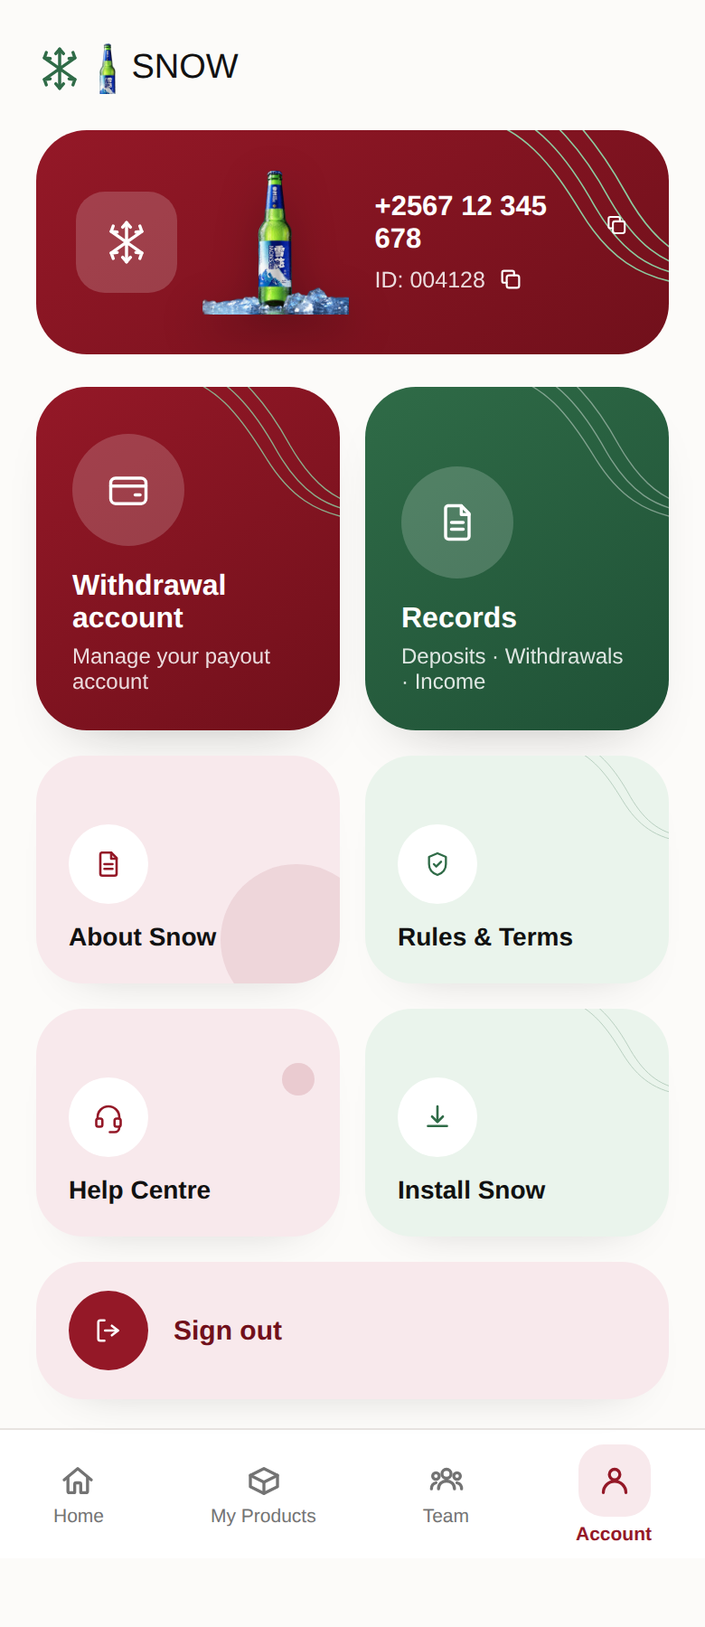
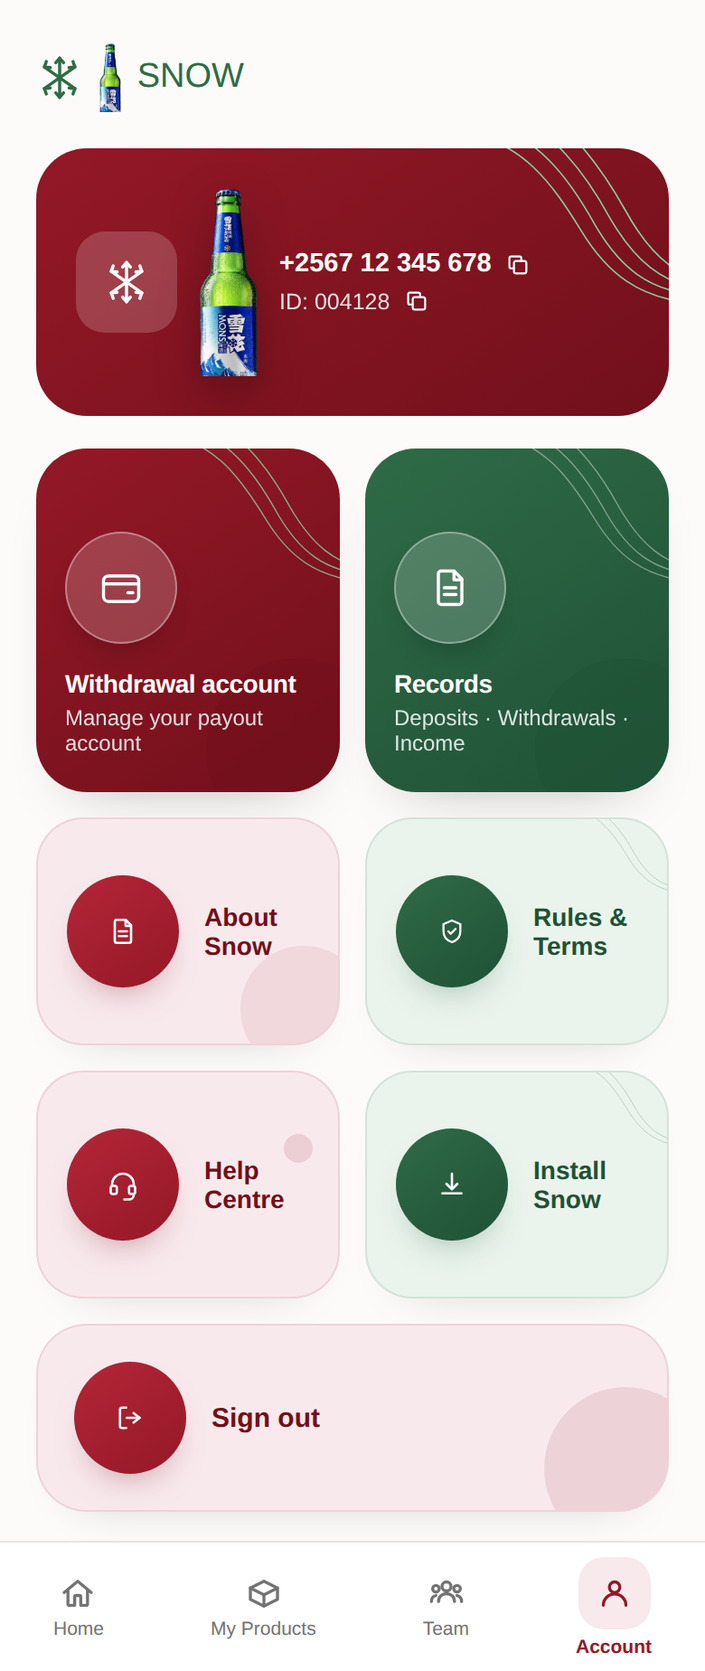
Round 8: Codex's line-by-line correction of Account; record Firebase/Mongo infra
Header bottle enlarged + wordmark recolored green. Identity banner swaps
the ice-included bottle cutout for the bottle-only badge (Codex: the ice
read as a blue strip and forced the phone number to 2 lines) -- phone
now nowrap on one line. Feature card titles tightened to fit one line.
Utility cards restructured from vertical 44px-icon tiles to horizontal
rows with solid 62px gradient icon circles, matching borders, and each
card's own -deep text color. Sign out promoted to its own larger card
size instead of inheriting the smaller utility-card defaults.

Also recorded Snow's Firebase web config (not secret) and MongoDB Atlas
setup status in CLAUDE.md -- no passwords committed.

diff --git a/snow/design/mockup-src/Account.html b/snow/design/mockup-src/Account.html
@@ -73,8 +73,12 @@ button{cursor:pointer;font-family:inherit;}
 
 .account-grid{display:grid;grid-template-columns:repeat(2,minmax(0,1fr));gap:14px;}
 .account-feature-card{min-height:190px;border-radius:var(--snow-radius-card);overflow:hidden;box-shadow:0 16px 32px -22px rgba(17,17,17,.35);position:relative;color:#fff;padding:20px;display:flex;flex-direction:column;justify-content:flex-end;}
-.account-utility-card{min-height:126px;border-radius:26px;padding:18px;box-shadow:0 14px 28px -24px rgba(17,17,17,.28);position:relative;overflow:hidden;display:flex;flex-direction:column;justify-content:flex-end;}
-.account-icon-bubble{width:62px;height:62px;border-radius:50%;display:flex;align-items:center;justify-content:center;}
+.account-utility-card{min-height:126px;border-radius:26px;padding:16px;box-shadow:0 14px 28px -24px rgba(17,17,17,.28);position:relative;overflow:hidden;display:flex;flex-direction:column;justify-content:flex-end;}
+.account-icon-bubble{width:62px;height:62px;border-radius:50%;display:flex;align-items:center;justify-content:center;flex-shrink:0;}
+.utility-wine{border:1px solid rgba(148,24,39,.10);}
+.utility-wine .account-icon-bubble{background:linear-gradient(145deg,#B42638,var(--snow-wine));color:#fff;box-shadow:0 10px 20px -12px rgba(113,16,27,.55);}
+.utility-green{border:1px solid rgba(47,107,71,.12);}
+.utility-green .account-icon-bubble{background:linear-gradient(145deg,var(--snow-green),var(--snow-green-deep));color:#fff;box-shadow:0 10px 20px -12px rgba(31,81,54,.5);}
 </style>
 </head>
 <body>
@@ -82,18 +86,18 @@ button{cursor:pointer;font-family:inherit;}
 
 <div style="display:flex;align-items:center;gap:9px;padding:24px 20px 4px;">
   <svg width="26" height="26" viewBox="0 0 24 24" fill="none" stroke="var(--snow-green)" stroke-width="1.6" stroke-linecap="round"><path d="M12 2v20M4.2 6.5l15.6 11M4.2 17.5l15.6-11"/><path d="M12 2l-2 2.3M12 2l2 2.3M12 22l-2-2.3M12 22l2-2.3M4.2 6.5l3 .3M4.2 6.5l1-2.8M19.8 6.5l-3 .3M19.8 6.5l-1-2.8M4.2 17.5l3-.3M4.2 17.5l1 2.8M19.8 17.5l-3-.3M19.8 17.5l-1 2.8"/></svg>
-  <img src="../reference-bottles/01-qing-shuang-badge.png" alt="" style="height:28px;width:auto;">
-  <div class="wm-text" style="font-size:19px;color:var(--snow-ink);">SNOW</div>
+  <img src="../reference-bottles/01-qing-shuang-badge.png" alt="" style="height:38px;width:auto;">
+  <div class="wm-text" style="font-size:19px;color:var(--snow-green);">SNOW</div>
 </div>
 
 <div class="brand-card" style="margin:16px 20px 0;padding:22px;">
   <svg viewBox="0 0 190 180" aria-hidden="true" style="position:absolute;top:-4px;right:-6px;width:110px;height:104px;opacity:0.9;"><path d="M-18 -8 C40 0 69 42 96 86 C121 127 151 150 202 155" stroke="var(--snow-wave-on-wine)" stroke-width="1.4" fill="none"/><path d="M0 -21 C55 -4 84 35 109 80 C134 123 162 143 205 147" stroke="var(--snow-wave-on-wine)" stroke-width="1.4" fill="none"/><path d="M20 -34 C70 -8 99 29 123 73 C148 116 174 136 208 140" stroke="var(--snow-wave-on-wine)" stroke-width="1.4" fill="none"/><path d="M40 -47 C85 -14 114 23 138 66 C161 108 186 128 211 132" stroke="var(--snow-wave-on-wine)" stroke-width="1.4" fill="none"/></svg>
-  <div style="position:relative;display:flex;align-items:center;gap:14px;">
+  <div style="position:relative;display:flex;align-items:center;gap:12px;">
     <div style="width:56px;height:56px;border-radius:16px;background:rgba(255,255,255,.18);display:flex;align-items:center;justify-content:center;flex-shrink:0;"><svg width="26" height="26" viewBox="0 0 24 24" fill="none" stroke="#fff" stroke-width="1.6" stroke-linecap="round"><path d="M12 2v20M4.2 6.5l15.6 11M4.2 17.5l15.6-11"/><path d="M12 2l-2 2.3M12 2l2 2.3M12 22l-2-2.3M12 22l2-2.3M4.2 6.5l3 .3M4.2 6.5l1-2.8M19.8 6.5l-3 .3M19.8 6.5l-1-2.8M4.2 17.5l3-.3M4.2 17.5l1 2.8M19.8 17.5l-3-.3M19.8 17.5l-1 2.8"/></svg></div>
-    <img src="../reference-bottles/01-qing-shuang-cutout.png" alt="" style="height:80px;width:auto;flex-shrink:0;filter:drop-shadow(0 8px 12px rgba(0,0,0,.28));">
+    <img src="../reference-bottles/01-qing-shuang-badge.png" alt="" style="height:104px;width:auto;flex-shrink:0;filter:drop-shadow(0 8px 12px rgba(0,0,0,.28));">
     <div style="flex:1;min-width:0;">
       <div style="display:flex;align-items:center;gap:7px;">
-        <div class="mono" style="font-size:15.5px;font-weight:700;">+2567 12 345 678</div>
+        <div class="mono" style="font-size:14.5px;font-weight:700;white-space:nowrap;">+2567 12 345 678</div>
         <svg width="15" height="15" viewBox="0 0 24 24" fill="none" stroke="currentColor" stroke-width="1.75" stroke-linecap="round" stroke-linejoin="round"><rect x="8.5" y="8.5" width="11" height="11" rx="2"/><path d="M15 8.5V6A1.5 1.5 0 0 0 13.5 4.5H6A1.5 1.5 0 0 0 4.5 6v7.5A1.5 1.5 0 0 0 6 15h2.5"/></svg>
       </div>
       <div style="display:flex;align-items:center;gap:7px;margin-top:5px;">
@@ -106,49 +110,52 @@ button{cursor:pointer;font-family:inherit;}
 
 <div class="account-grid" style="margin:18px 20px 0;">
 
-  <div class="account-feature-card" style="background:linear-gradient(145deg,var(--snow-wine) 0%,var(--snow-wine-deep) 100%);">
+  <div class="account-feature-card" style="background:linear-gradient(145deg,var(--snow-wine) 0%,var(--snow-wine-deep) 100%);padding:20px 16px;">
     <svg viewBox="0 0 190 180" aria-hidden="true" style="position:absolute;top:-4px;right:-6px;width:95px;height:90px;opacity:0.75;"><path d="M-18 -8 C40 0 69 42 96 86 C121 127 151 150 202 155" stroke="var(--snow-wave-on-wine)" stroke-width="1.4" fill="none"/><path d="M0 -21 C55 -4 84 35 109 80 C134 123 162 143 205 147" stroke="var(--snow-wave-on-wine)" stroke-width="1.4" fill="none"/><path d="M20 -34 C70 -8 99 29 123 73 C148 116 174 136 208 140" stroke="var(--snow-wave-on-wine)" stroke-width="1.4" fill="none"/></svg>
-    <div class="account-icon-bubble" style="position:relative;background:rgba(255,255,255,.18);color:#fff;margin-bottom:14px;"><svg width="26" height="26" viewBox="0 0 24 24" fill="none" stroke="currentColor" stroke-width="1.6" stroke-linecap="round" stroke-linejoin="round"><rect x="3" y="6" width="18" height="13" rx="2.5"/><path d="M3 10h18"/><path d="M15.5 14.5h2.5"/></svg></div>
-    <div style="position:relative;font-size:16px;font-weight:800;">Withdrawal account</div>
+    <div style="position:absolute;right:-26px;bottom:-26px;width:100px;height:100px;border-radius:50%;background:var(--snow-wine-deep);opacity:0.4;pointer-events:none;"></div>
+    <div class="account-icon-bubble" style="position:relative;background:rgba(255,255,255,.18);border:1px solid rgba(255,255,255,.35);color:#fff;box-shadow:0 8px 16px -8px rgba(0,0,0,.3);margin-bottom:14px;"><svg width="26" height="26" viewBox="0 0 24 24" fill="none" stroke="currentColor" stroke-width="1.6" stroke-linecap="round" stroke-linejoin="round"><rect x="3" y="6" width="18" height="13" rx="2.5"/><path d="M3 10h18"/><path d="M15.5 14.5h2.5"/></svg></div>
+    <div style="position:relative;font-size:14px;font-weight:800;letter-spacing:-.25px;white-space:nowrap;">Withdrawal account</div>
     <div style="position:relative;font-size:12px;opacity:.85;margin-top:4px;">Manage your payout account</div>
   </div>
 
-  <div class="account-feature-card" style="background:linear-gradient(145deg,var(--snow-green) 0%,var(--snow-green-deep) 100%);">
+  <div class="account-feature-card" style="background:linear-gradient(145deg,var(--snow-green) 0%,var(--snow-green-deep) 100%);padding:20px 16px;">
     <svg viewBox="0 0 190 180" aria-hidden="true" style="position:absolute;top:-4px;right:-6px;width:95px;height:90px;opacity:0.75;"><path d="M-18 -8 C40 0 69 42 96 86 C121 127 151 150 202 155" stroke="rgba(255,255,255,.55)" stroke-width="1.4" fill="none"/><path d="M0 -21 C55 -4 84 35 109 80 C134 123 162 143 205 147" stroke="rgba(255,255,255,.55)" stroke-width="1.4" fill="none"/><path d="M20 -34 C70 -8 99 29 123 73 C148 116 174 136 208 140" stroke="rgba(255,255,255,.55)" stroke-width="1.4" fill="none"/></svg>
-    <div class="account-icon-bubble" style="position:relative;background:rgba(255,255,255,.18);color:#fff;margin-bottom:14px;"><svg width="26" height="26" viewBox="0 0 24 24" fill="none" stroke="currentColor" stroke-width="1.6" stroke-linecap="round" stroke-linejoin="round"><path d="M7 3.5h7l4 4V19a1.5 1.5 0 0 1-1.5 1.5h-9A1.5 1.5 0 0 1 6 19V5A1.5 1.5 0 0 1 7 3.5Z"/><path d="M14 3.5V8h4"/><path d="M9 12h6M9 15.5h6"/></svg></div>
-    <div style="position:relative;font-size:16px;font-weight:800;">Records</div>
+    <div style="position:absolute;right:-26px;bottom:-26px;width:100px;height:100px;border-radius:50%;background:var(--snow-green-deep);opacity:0.45;pointer-events:none;"></div>
+    <div class="account-icon-bubble" style="position:relative;background:rgba(255,255,255,.18);border:1px solid rgba(255,255,255,.35);color:#fff;box-shadow:0 8px 16px -8px rgba(0,0,0,.3);margin-bottom:14px;"><svg width="26" height="26" viewBox="0 0 24 24" fill="none" stroke="currentColor" stroke-width="1.6" stroke-linecap="round" stroke-linejoin="round"><path d="M7 3.5h7l4 4V19a1.5 1.5 0 0 1-1.5 1.5h-9A1.5 1.5 0 0 1 6 19V5A1.5 1.5 0 0 1 7 3.5Z"/><path d="M14 3.5V8h4"/><path d="M9 12h6M9 15.5h6"/></svg></div>
+    <div style="position:relative;font-size:14px;font-weight:800;letter-spacing:-.25px;">Records</div>
     <div style="position:relative;font-size:12px;opacity:.85;margin-top:4px;">Deposits &middot; Withdrawals &middot; Income</div>
   </div>
 
-  <div class="account-utility-card" style="background:var(--snow-wine-soft);">
-    <div style="position:absolute;right:-18px;bottom:-18px;width:84px;height:84px;border-radius:50%;background:var(--snow-wine);opacity:0.09;pointer-events:none;"></div>
-    <div class="account-icon-bubble" style="position:relative;width:44px;height:44px;background:#fff;color:var(--snow-wine);margin-bottom:10px;"><svg width="18" height="18" viewBox="0 0 24 24" fill="none" stroke="currentColor" stroke-width="1.75" stroke-linecap="round" stroke-linejoin="round"><path d="M7 3.5h7l4 4V19a1.5 1.5 0 0 1-1.5 1.5h-9A1.5 1.5 0 0 1 6 19V5A1.5 1.5 0 0 1 7 3.5Z"/><path d="M14 3.5V8h4"/><path d="M9 12h6M9 15.5h6"/></svg></div>
-    <div style="position:relative;font-size:14px;font-weight:700;color:var(--snow-ink);">About Snow</div>
+  <div class="account-utility-card utility-wine" style="background:var(--snow-wine-soft);flex-direction:row;justify-content:flex-start;align-items:center;gap:14px;">
+    <div style="position:absolute;right:-16px;bottom:-16px;width:70px;height:70px;border-radius:50%;background:var(--snow-wine);opacity:0.08;pointer-events:none;"></div>
+    <div class="account-icon-bubble" style="position:relative;"><svg width="18" height="18" viewBox="0 0 24 24" fill="none" stroke="currentColor" stroke-width="1.75" stroke-linecap="round" stroke-linejoin="round"><path d="M7 3.5h7l4 4V19a1.5 1.5 0 0 1-1.5 1.5h-9A1.5 1.5 0 0 1 6 19V5A1.5 1.5 0 0 1 7 3.5Z"/><path d="M14 3.5V8h4"/><path d="M9 12h6M9 15.5h6"/></svg></div>
+    <div style="position:relative;font-size:14px;font-weight:700;color:var(--snow-wine-deep);">About Snow</div>
   </div>
 
-  <div class="account-utility-card" style="background:var(--snow-green-soft);">
-    <svg viewBox="0 0 190 180" aria-hidden="true" style="position:absolute;top:-4px;right:-6px;width:64px;height:60px;opacity:0.28;"><path d="M-18 -8 C40 0 69 42 96 86 C121 127 151 150 202 155" stroke="var(--snow-green)" stroke-width="1.4" fill="none"/><path d="M0 -21 C55 -4 84 35 109 80 C134 123 162 143 205 147" stroke="var(--snow-green)" stroke-width="1.4" fill="none"/></svg>
-    <div class="account-icon-bubble" style="position:relative;width:44px;height:44px;background:#fff;color:var(--snow-green);margin-bottom:10px;"><svg width="16" height="16" viewBox="0 0 24 24" fill="none" stroke="currentColor" stroke-width="1.75" stroke-linecap="round" stroke-linejoin="round"><path d="M12 3l7 3v6c0 4.6-3 7.6-7 9-4-1.4-7-4.4-7-9V6l7-3Z"/><path d="M9 12l2 2 4-4"/></svg></div>
-    <div style="position:relative;font-size:14px;font-weight:700;color:var(--snow-ink);">Rules &amp; Terms</div>
+  <div class="account-utility-card utility-green" style="background:var(--snow-green-soft);flex-direction:row;justify-content:flex-start;align-items:center;gap:14px;">
+    <svg viewBox="0 0 190 180" aria-hidden="true" style="position:absolute;top:-4px;right:-6px;width:56px;height:52px;opacity:0.3;"><path d="M-18 -8 C40 0 69 42 96 86 C121 127 151 150 202 155" stroke="var(--snow-green)" stroke-width="1.4" fill="none"/><path d="M0 -21 C55 -4 84 35 109 80 C134 123 162 143 205 147" stroke="var(--snow-green)" stroke-width="1.4" fill="none"/></svg>
+    <div class="account-icon-bubble" style="position:relative;"><svg width="16" height="16" viewBox="0 0 24 24" fill="none" stroke="currentColor" stroke-width="1.75" stroke-linecap="round" stroke-linejoin="round"><path d="M12 3l7 3v6c0 4.6-3 7.6-7 9-4-1.4-7-4.4-7-9V6l7-3Z"/><path d="M9 12l2 2 4-4"/></svg></div>
+    <div style="position:relative;font-size:14px;font-weight:700;color:var(--snow-green-deep);">Rules &amp; Terms</div>
   </div>
 
-  <div class="account-utility-card" style="background:var(--snow-wine-soft);">
-    <div style="position:absolute;right:14px;bottom:78px;width:18px;height:18px;border-radius:50%;background:var(--snow-wine);opacity:0.14;pointer-events:none;"></div>
-    <div class="account-icon-bubble" style="position:relative;width:44px;height:44px;background:#fff;color:var(--snow-wine);margin-bottom:10px;"><svg width="18" height="18" viewBox="0 0 24 24" fill="none" stroke="currentColor" stroke-width="1.75" stroke-linecap="round" stroke-linejoin="round"><path d="M4 13v-1a8 8 0 0 1 16 0v1"/><rect x="3" y="13" width="4.5" height="6" rx="1.5"/><rect x="16.5" y="13" width="4.5" height="6" rx="1.5"/><path d="M20 19v.5A3.5 3.5 0 0 1 16.5 23H13"/></svg></div>
-    <div style="position:relative;font-size:14px;font-weight:700;color:var(--snow-ink);">Help Centre</div>
+  <div class="account-utility-card utility-wine" style="background:var(--snow-wine-soft);flex-direction:row;justify-content:flex-start;align-items:center;gap:14px;">
+    <div style="position:absolute;right:14px;bottom:74px;width:16px;height:16px;border-radius:50%;background:var(--snow-wine);opacity:0.12;pointer-events:none;"></div>
+    <div class="account-icon-bubble" style="position:relative;"><svg width="18" height="18" viewBox="0 0 24 24" fill="none" stroke="currentColor" stroke-width="1.75" stroke-linecap="round" stroke-linejoin="round"><path d="M4 13v-1a8 8 0 0 1 16 0v1"/><rect x="3" y="13" width="4.5" height="6" rx="1.5"/><rect x="16.5" y="13" width="4.5" height="6" rx="1.5"/><path d="M20 19v.5A3.5 3.5 0 0 1 16.5 23H13"/></svg></div>
+    <div style="position:relative;font-size:14px;font-weight:700;color:var(--snow-wine-deep);">Help Centre</div>
   </div>
 
-  <div class="account-utility-card" style="background:var(--snow-green-soft);">
-    <svg viewBox="0 0 190 180" aria-hidden="true" style="position:absolute;top:-4px;right:-6px;width:64px;height:60px;opacity:0.28;"><path d="M-18 -8 C40 0 69 42 96 86 C121 127 151 150 202 155" stroke="var(--snow-green)" stroke-width="1.4" fill="none"/><path d="M0 -21 C55 -4 84 35 109 80 C134 123 162 143 205 147" stroke="var(--snow-green)" stroke-width="1.4" fill="none"/></svg>
-    <div class="account-icon-bubble" style="position:relative;width:44px;height:44px;background:#fff;color:var(--snow-green);margin-bottom:10px;"><svg width="18" height="18" viewBox="0 0 24 24" fill="none" stroke="currentColor" stroke-width="1.75" stroke-linecap="round" stroke-linejoin="round"><path d="M12 4v11"/><path d="M8 11.5 12 15.5 16 11.5"/><path d="M5 18.5h14"/></svg></div>
-    <div style="position:relative;font-size:14px;font-weight:700;color:var(--snow-ink);">Install Snow</div>
+  <div class="account-utility-card utility-green" style="background:var(--snow-green-soft);flex-direction:row;justify-content:flex-start;align-items:center;gap:14px;">
+    <svg viewBox="0 0 190 180" aria-hidden="true" style="position:absolute;top:-4px;right:-6px;width:56px;height:52px;opacity:0.3;"><path d="M-18 -8 C40 0 69 42 96 86 C121 127 151 150 202 155" stroke="var(--snow-green)" stroke-width="1.4" fill="none"/><path d="M0 -21 C55 -4 84 35 109 80 C134 123 162 143 205 147" stroke="var(--snow-green)" stroke-width="1.4" fill="none"/></svg>
+    <div class="account-icon-bubble" style="position:relative;"><svg width="18" height="18" viewBox="0 0 24 24" fill="none" stroke="currentColor" stroke-width="1.75" stroke-linecap="round" stroke-linejoin="round"><path d="M12 4v11"/><path d="M8 11.5 12 15.5 16 11.5"/><path d="M5 18.5h14"/></svg></div>
+    <div style="position:relative;font-size:14px;font-weight:700;color:var(--snow-green-deep);">Install Snow</div>
   </div>
 
 </div>
 
-<div class="account-utility-card" style="margin:14px 20px 0;background:var(--snow-wine-soft);flex-direction:row;justify-content:flex-start;align-items:center;gap:14px;min-height:0;padding:16px 18px;">
-  <div class="account-icon-bubble" style="width:44px;height:44px;background:var(--snow-wine);color:#fff;flex-shrink:0;"><svg width="18" height="18" viewBox="0 0 24 24" fill="none" stroke="currentColor" stroke-width="1.75" stroke-linecap="round" stroke-linejoin="round"><path d="M9 4.5H6A1.5 1.5 0 0 0 4.5 6v12A1.5 1.5 0 0 0 6 19.5h3"/><path d="M14.5 8.5 19 12l-4.5 3.5"/><path d="M19 12H9.5"/></svg></div>
-  <div style="font-size:15px;font-weight:700;color:var(--snow-wine-deep);">Sign out</div>
+<div class="account-utility-card utility-wine" style="margin:14px 20px 0;background:var(--snow-wine-soft);flex-direction:row;justify-content:flex-start;align-items:center;gap:14px;min-height:104px;border-radius:28px;padding:20px;">
+  <div style="position:absolute;right:-22px;bottom:-22px;width:90px;height:90px;border-radius:50%;background:var(--snow-wine);opacity:0.1;pointer-events:none;"></div>
+  <div class="account-icon-bubble" style="position:relative;"><svg width="18" height="18" viewBox="0 0 24 24" fill="none" stroke="currentColor" stroke-width="1.75" stroke-linecap="round" stroke-linejoin="round"><path d="M9 4.5H6A1.5 1.5 0 0 0 4.5 6v12A1.5 1.5 0 0 0 6 19.5h3"/><path d="M14.5 8.5 19 12l-4.5 3.5"/><path d="M19 12H9.5"/></svg></div>
+  <div style="position:relative;font-size:15px;font-weight:700;color:var(--snow-wine-deep);">Sign out</div>
 </div>
 <div style='height:16px;'></div>
 <div class="bottom-nav" style="height:72px;"><div class="navitem"><svg width="20" height="20" viewBox="0 0 24 24" fill="none" stroke="currentColor" stroke-width="2" stroke-linecap="round" stroke-linejoin="round"><path d="M3 11.5 12 4l9 7.5"/><path d="M5.5 10v9a1 1 0 0 0 1 1H10v-5.5a1 1 0 0 1 1-1h2a1 1 0 0 1 1 1V20h3.5a1 1 0 0 0 1-1v-9"/></svg><div class="lbl">Home</div></div><div class="navitem"><svg width="20" height="20" viewBox="0 0 24 24" fill="none" stroke="currentColor" stroke-width="2" stroke-linecap="round" stroke-linejoin="round"><path d="M21 8.5 12 4 3 8.5 12 13l9-4.5Z"/><path d="M3 8.5V16l9 4.5 9-4.5V8.5"/><path d="M12 13v7.5"/></svg><div class="lbl">My Products</div></div><div class="navitem"><svg width="20" height="20" viewBox="0 0 24 24" fill="none" stroke="currentColor" stroke-width="2" stroke-linecap="round" stroke-linejoin="round"><circle cx="12" cy="7.5" r="3"/><circle cx="5" cy="9" r="2.2"/><circle cx="19" cy="9" r="2.2"/><path d="M12 12.3c-2.9 0-5.3 1.9-5.3 5.2"/><path d="M12 12.3c2.9 0 5.3 1.9 5.3 5.2"/><path d="M5 13.5c-1.7.4-3 1.9-3 4"/><path d="M19 13.5c1.7.4 3 1.9 3 4"/></svg><div class="lbl">Team</div></div><div class="navitem active"><div style="width:40px;height:40px;border-radius:14px;background:var(--snow-wine-soft);display:flex;align-items:center;justify-content:center;"><svg width="20" height="20" viewBox="0 0 24 24" fill="none" stroke="currentColor" stroke-width="2" stroke-linecap="round" stroke-linejoin="round"><circle cx="12" cy="8" r="3.5"/><path d="M4.5 20a7.5 7.5 0 0 1 15 0"/></svg></div><div class="lbl">Account</div></div></div>

diff --git a/snow/design/mockup-src/build.py b/snow/design/mockup-src/build.py
@@ -87,8 +87,12 @@ button{cursor:pointer;font-family:inherit;}
 
 .account-grid{display:grid;grid-template-columns:repeat(2,minmax(0,1fr));gap:14px;}
 .account-feature-card{min-height:190px;border-radius:var(--snow-radius-card);overflow:hidden;box-shadow:0 16px 32px -22px rgba(17,17,17,.35);position:relative;color:#fff;padding:20px;display:flex;flex-direction:column;justify-content:flex-end;}
-.account-utility-card{min-height:126px;border-radius:26px;padding:18px;box-shadow:0 14px 28px -24px rgba(17,17,17,.28);position:relative;overflow:hidden;display:flex;flex-direction:column;justify-content:flex-end;}
-.account-icon-bubble{width:62px;height:62px;border-radius:50%;display:flex;align-items:center;justify-content:center;}
+.account-utility-card{min-height:126px;border-radius:26px;padding:16px;box-shadow:0 14px 28px -24px rgba(17,17,17,.28);position:relative;overflow:hidden;display:flex;flex-direction:column;justify-content:flex-end;}
+.account-icon-bubble{width:62px;height:62px;border-radius:50%;display:flex;align-items:center;justify-content:center;flex-shrink:0;}
+.utility-wine{border:1px solid rgba(148,24,39,.10);}
+.utility-wine .account-icon-bubble{background:linear-gradient(145deg,#B42638,var(--snow-wine));color:#fff;box-shadow:0 10px 20px -12px rgba(113,16,27,.55);}
+.utility-green{border:1px solid rgba(47,107,71,.12);}
+.utility-green .account-icon-bubble{background:linear-gradient(145deg,var(--snow-green),var(--snow-green-deep));color:#fff;box-shadow:0 10px 20px -12px rgba(31,81,54,.5);}
 """
 
 def snowflake_svg(color, size=17):
@@ -433,24 +437,26 @@ print("wrote Team.html")
 # of it), bell removed, Transaction PIN tile removed, Records replaces the
 # separate Deposit/Withdrawal History tiles. See AGENT_LOG.md for the full
 # rationale, including how the bottle photos were background-removed (rembg).
-BOTTLE_CUTOUT = f"{BOTTLES_REL}/01-qing-shuang-cutout.png"   # fuller shot (w/ ice) -- identity banner
-BOTTLE_BADGE = f"{BOTTLES_REL}/01-qing-shuang-badge.png"     # bottle only, no ice -- tiny header mark
+# Round 8: Codex rejected the fuller ice-included cutout for the identity banner
+# (read as a blue strip, forced the phone number to 2 lines) -- badge (bottle
+# only, no ice) is now used everywhere on this screen, just larger in the banner.
+BOTTLE_BADGE = f"{BOTTLES_REL}/01-qing-shuang-badge.png"
 
 account_body = f"""
 <div style="display:flex;align-items:center;gap:9px;padding:24px 20px 4px;">
   {snowflake_svg('var(--snow-green)', 26)}
-  <img src="{BOTTLE_BADGE}" alt="" style="height:28px;width:auto;">
-  <div class="wm-text" style="font-size:19px;color:var(--snow-ink);">SNOW</div>
+  <img src="{BOTTLE_BADGE}" alt="" style="height:38px;width:auto;">
+  <div class="wm-text" style="font-size:19px;color:var(--snow-green);">SNOW</div>
 </div>
 
 <div class="brand-card" style="margin:16px 20px 0;padding:22px;">
   {wave_lines_top_right(110, 104)}
-  <div style="position:relative;display:flex;align-items:center;gap:14px;">
+  <div style="position:relative;display:flex;align-items:center;gap:12px;">
     <div style="width:56px;height:56px;border-radius:16px;background:rgba(255,255,255,.18);display:flex;align-items:center;justify-content:center;flex-shrink:0;">{snowflake_svg('#fff',26)}</div>
-    <img src="{BOTTLE_CUTOUT}" alt="" style="height:80px;width:auto;flex-shrink:0;filter:drop-shadow(0 8px 12px rgba(0,0,0,.28));">
+    <img src="{BOTTLE_BADGE}" alt="" style="height:104px;width:auto;flex-shrink:0;filter:drop-shadow(0 8px 12px rgba(0,0,0,.28));">
     <div style="flex:1;min-width:0;">
       <div style="display:flex;align-items:center;gap:7px;">
-        <div class="mono" style="font-size:15.5px;font-weight:700;">+2567 12 345 678</div>
+        <div class="mono" style="font-size:14.5px;font-weight:700;white-space:nowrap;">+2567 12 345 678</div>
         {ICONS['copy']}
       </div>
       <div style="display:flex;align-items:center;gap:7px;margin-top:5px;">
@@ -463,49 +469,52 @@ account_body = f"""
 
 <div class="account-grid" style="margin:18px 20px 0;">
 
-  <div class="account-feature-card" style="background:linear-gradient(145deg,var(--snow-wine) 0%,var(--snow-wine-deep) 100%);">
+  <div class="account-feature-card" style="background:linear-gradient(145deg,var(--snow-wine) 0%,var(--snow-wine-deep) 100%);padding:20px 16px;">
     {wave_lines_top_right(95, 90, count=3, opacity=.75)}
-    <div class="account-icon-bubble" style="position:relative;background:rgba(255,255,255,.18);color:#fff;margin-bottom:14px;">{ICONS['wallet-lg']}</div>
-    <div style="position:relative;font-size:16px;font-weight:800;">Withdrawal account</div>
+    {soft_blob("var(--snow-wine-deep)", .4, 100, -26, -26)}
+    <div class="account-icon-bubble" style="position:relative;background:rgba(255,255,255,.18);border:1px solid rgba(255,255,255,.35);color:#fff;box-shadow:0 8px 16px -8px rgba(0,0,0,.3);margin-bottom:14px;">{ICONS['wallet-lg']}</div>
+    <div style="position:relative;font-size:14px;font-weight:800;letter-spacing:-.25px;white-space:nowrap;">Withdrawal account</div>
     <div style="position:relative;font-size:12px;opacity:.85;margin-top:4px;">Manage your payout account</div>
   </div>
 
-  <div class="account-feature-card" style="background:linear-gradient(145deg,var(--snow-green) 0%,var(--snow-green-deep) 100%);">
+  <div class="account-feature-card" style="background:linear-gradient(145deg,var(--snow-green) 0%,var(--snow-green-deep) 100%);padding:20px 16px;">
     {wave_lines_top_right(95, 90, color="rgba(255,255,255,.55)", count=3, opacity=.75)}
-    <div class="account-icon-bubble" style="position:relative;background:rgba(255,255,255,.18);color:#fff;margin-bottom:14px;">{ICONS['doc-lg']}</div>
-    <div style="position:relative;font-size:16px;font-weight:800;">Records</div>
+    {soft_blob("var(--snow-green-deep)", .45, 100, -26, -26)}
+    <div class="account-icon-bubble" style="position:relative;background:rgba(255,255,255,.18);border:1px solid rgba(255,255,255,.35);color:#fff;box-shadow:0 8px 16px -8px rgba(0,0,0,.3);margin-bottom:14px;">{ICONS['doc-lg']}</div>
+    <div style="position:relative;font-size:14px;font-weight:800;letter-spacing:-.25px;">Records</div>
     <div style="position:relative;font-size:12px;opacity:.85;margin-top:4px;">Deposits &middot; Withdrawals &middot; Income</div>
   </div>
 
-  <div class="account-utility-card" style="background:var(--snow-wine-soft);">
-    {soft_blob("var(--snow-wine)", .09, 84, -18, -18)}
-    <div class="account-icon-bubble" style="position:relative;width:44px;height:44px;background:#fff;color:var(--snow-wine);margin-bottom:10px;">{ICONS['doc']}</div>
-    <div style="position:relative;font-size:14px;font-weight:700;color:var(--snow-ink);">About Snow</div>
+  <div class="account-utility-card utility-wine" style="background:var(--snow-wine-soft);flex-direction:row;justify-content:flex-start;align-items:center;gap:14px;">
+    {soft_blob("var(--snow-wine)", .08, 70, -16, -16)}
+    <div class="account-icon-bubble" style="position:relative;">{ICONS['doc']}</div>
+    <div style="position:relative;font-size:14px;font-weight:700;color:var(--snow-wine-deep);">About Snow</div>
   </div>
 
-  <div class="account-utility-card" style="background:var(--snow-green-soft);">
-    {wave_lines_top_right(64, 60, color="var(--snow-green)", count=2, opacity=.28)}
-    <div class="account-icon-bubble" style="position:relative;width:44px;height:44px;background:#fff;color:var(--snow-green);margin-bottom:10px;">{ICONS['shield']}</div>
-    <div style="position:relative;font-size:14px;font-weight:700;color:var(--snow-ink);">Rules &amp; Terms</div>
+  <div class="account-utility-card utility-green" style="background:var(--snow-green-soft);flex-direction:row;justify-content:flex-start;align-items:center;gap:14px;">
+    {wave_lines_top_right(56, 52, color="var(--snow-green)", count=2, opacity=.3)}
+    <div class="account-icon-bubble" style="position:relative;">{ICONS['shield']}</div>
+    <div style="position:relative;font-size:14px;font-weight:700;color:var(--snow-green-deep);">Rules &amp; Terms</div>
   </div>
 
-  <div class="account-utility-card" style="background:var(--snow-wine-soft);">
-    {soft_blob("var(--snow-wine)", .14, 18, 14, 78)}
-    <div class="account-icon-bubble" style="position:relative;width:44px;height:44px;background:#fff;color:var(--snow-wine);margin-bottom:10px;">{ICONS['headset']}</div>
-    <div style="position:relative;font-size:14px;font-weight:700;color:var(--snow-ink);">Help Centre</div>
+  <div class="account-utility-card utility-wine" style="background:var(--snow-wine-soft);flex-direction:row;justify-content:flex-start;align-items:center;gap:14px;">
+    {soft_blob("var(--snow-wine)", .12, 16, 14, 74)}
+    <div class="account-icon-bubble" style="position:relative;">{ICONS['headset']}</div>
+    <div style="position:relative;font-size:14px;font-weight:700;color:var(--snow-wine-deep);">Help Centre</div>
   </div>
 
-  <div class="account-utility-card" style="background:var(--snow-green-soft);">
-    {wave_lines_top_right(64, 60, color="var(--snow-green)", count=2, opacity=.28)}
-    <div class="account-icon-bubble" style="position:relative;width:44px;height:44px;background:#fff;color:var(--snow-green);margin-bottom:10px;">{ICONS['download']}</div>
-    <div style="position:relative;font-size:14px;font-weight:700;color:var(--snow-ink);">Install Snow</div>
+  <div class="account-utility-card utility-green" style="background:var(--snow-green-soft);flex-direction:row;justify-content:flex-start;align-items:center;gap:14px;">
+    {wave_lines_top_right(56, 52, color="var(--snow-green)", count=2, opacity=.3)}
+    <div class="account-icon-bubble" style="position:relative;">{ICONS['download']}</div>
+    <div style="position:relative;font-size:14px;font-weight:700;color:var(--snow-green-deep);">Install Snow</div>
   </div>
 
 </div>
 
-<div class="account-utility-card" style="margin:14px 20px 0;background:var(--snow-wine-soft);flex-direction:row;justify-content:flex-start;align-items:center;gap:14px;min-height:0;padding:16px 18px;">
-  <div class="account-icon-bubble" style="width:44px;height:44px;background:var(--snow-wine);color:#fff;flex-shrink:0;">{ICONS['logout']}</div>
-  <div style="font-size:15px;font-weight:700;color:var(--snow-wine-deep);">Sign out</div>
+<div class="account-utility-card utility-wine" style="margin:14px 20px 0;background:var(--snow-wine-soft);flex-direction:row;justify-content:flex-start;align-items:center;gap:14px;min-height:104px;border-radius:28px;padding:20px;">
+  {soft_blob("var(--snow-wine)", .1, 90, -22, -22)}
+  <div class="account-icon-bubble" style="position:relative;">{ICONS['logout']}</div>
+  <div style="position:relative;font-size:15px;font-weight:700;color:var(--snow-wine-deep);">Sign out</div>
 </div>
 """
 

diff --git a/snow/AGENT_LOG.md b/snow/AGENT_LOG.md
@@ -16,6 +16,101 @@ on.
 
 ---
 
+## 2026-08-26 — Claude — Round 8: Codex's line-by-line correction of the round-7 Account screen; MongoDB/Firebase infra noted
+
+Owner sent Codex's detailed correction pass on round 7's Account screenshot, plus two
+infra items in the same message (a MongoDB Atlas "Add New Database User" screenshot
+and a Firebase web config for a new project) — see the separate notes on those below,
+kept out of this design entry.
+
+**Applied all 7 of Codex's corrections directly to `build.py`:**
+1. Header: bottle badge enlarged 28px → 38px tall (so it reads as a real bottle, not
+   a tiny emoji-scale mark); "SNOW" wordmark recolored from black (`--snow-ink`) to
+   `var(--snow-green)`.
+2. Identity banner: swapped `01-qing-shuang-cutout.png` (bottle + the ice it stands
+   on) for `01-qing-shuang-badge.png` (bottle only, transparent, no ice) — Codex's
+   own reasoning: the ice read as a blue-ish strip and pushed the phone number onto 2
+   lines. Sized to `height:104px` in this larger banner context (vs 38px in the tiny
+   header). Phone number set to `white-space:nowrap;font-size:14.5px` (was 15.5px,
+   no nowrap) so it can never wrap even with a longer number; banner's internal gap
+   tightened 14px → 12px for extra headroom. `BOTTLE_CUTOUT` is no longer referenced
+   anywhere in the file — only `BOTTLE_BADGE` is used across the whole Account screen
+   now (header + banner both).
+3. Feature cards (Withdrawal account / Records): icon bubbles gained a white
+   translucent border (`1px solid rgba(255,255,255,.35)`) and their own soft shadow,
+   plus a new darker translucent corner blob (`soft_blob`, the card's own `-deep`
+   shade at bottom-right) layered underneath the existing top-right wave-lines, so
+   neither card reads as a flat block. "Withdrawal account" — the longer of the two
+   titles — was wrapping to 2 lines; fixed with `font-size:14px` (was 16),
+   `letter-spacing:-.25px`, `white-space:nowrap`, and tighter card padding
+   (`20px 16px` instead of a flat `20px`) — reads on one line now, matching Codex's
+   "Withdrawal account stays on one line" requirement exactly.
+4. **The 4 utility cards were restructured from vertical (icon-on-top, label-below,
+   44px white circles) to horizontal (icon-left, label-right, vertically centered,
+   62px SOLID gradient circles)** — the actual substance of this round's correction.
+   New CSS: `.utility-wine`/`.utility-green` set a `linear-gradient(145deg, ...)`
+   background + white icon color + drop shadow directly on `.account-icon-bubble`
+   when nested inside one of those two wrapper classes, plus a faint matching
+   `1px` border on the card itself (`rgba(148,24,39,.10)` wine /
+   `rgba(47,107,71,.12)` green) for the "soft premium edge" Codex asked for. Labels
+   now use each card's own `-deep` color (`--snow-wine-deep`/`--snow-green-deep`)
+   instead of the flat `--snow-ink` every card used before. Each card kept its own
+   decorative accent (soft blob for About Snow/Help Centre, a scaled-down 2-curve
+   wave-lines accent for Rules & Terms/Install Snow) — unchanged in kind from round
+   7, just recolored/repositioned now that the icon bubble is bigger and the layout
+   direction flipped.
+5. Sign out: promoted from a plain utility-card override to its own explicit
+   `min-height:104px; border-radius:28px; padding:20px` (was implicitly inheriting
+   the smaller 126px/26px utility-card defaults before), 62px solid wine icon bubble
+   (via `utility-wine`, same mechanism as the other 4 cards), and a subtle wine
+   `soft_blob` at the lower-right. Still reads "Sign out", never "Log Out".
+6. Confirmed still true, no changes needed: no Transaction PIN card, no separate
+   Deposit/Withdrawal History cards, Records alone represents all three, no blue or
+   gold anywhere (the small blue inside the authentic bottle label itself is fine
+   per Codex's own carve-out — that's the product photo, not UI chrome), bottom nav
+   unchanged from round 7's global update.
+7. One additional, unprompted but low-risk tightening: reduced `.account-utility-card`'s
+   base padding from 18px to 16px to give the now-larger 62px bubble a little more
+   room before the label wraps — labels still wrap to 2 lines for the longer ones
+   (About Snow / Rules & Terms / Help Centre / Install Snow all wrap at this card
+   width), which Codex's spec doesn't actually require to be single-line (only the
+   "Withdrawal account" feature-card title had that explicit requirement) — left as
+   a reasonable, spec-compliant trade-off rather than shrinking the 62px bubble
+   Codex explicitly said to keep.
+
+**Verification**: regenerated (`python3 build.py`, Playwright screenshot) and visually
+inspected the result against every one of Codex's 7 numbered points — confirmed the
+phone number is genuinely one line now, "Withdrawal account" is one line, all 4
+utility cards read icon-left/label-right with solid gradient 62px circles and a
+visible border, Sign out is visibly larger/more premium than a generic utility card,
+and Home/My Products/Team render unaffected (only Account-scoped CSS/markup touched
+this round).
+
+---
+
+### Infra notes (not a design change — recorded here since they arrived in the same message)
+
+- **MongoDB Atlas**: owner is creating a dedicated `snow` database user (Atlas "Add
+  New Database User" dialog, Password authentication). At the point they screenshotted
+  it, **no role had been selected yet** ("Built-in Role — 0 SELECTED") — Atlas requires
+  at least one role or privilege before "Add User" will actually save, so this needed
+  one more step (e.g. a `readWrite`-scoped role on the `snow` database, or
+  `readWriteAnyDatabase` to mirror the existing `chocomcc` user's own role visible in
+  the same project) before the user is actually usable. **The generated password shown
+  in that screenshot was NOT recorded anywhere in this repo** — per this project's
+  standing secrets rule, it belongs only in whatever hosting platform's env vars end up
+  running Snow's backend (once one exists), same as space8's `MONGODB_URI` on Render.
+- **Firebase**: owner shared a fresh web client config for a new Firebase project,
+  `snow-beer-cbf65`. Unlike the Mongo password, **this IS safe to keep in this repo** —
+  a Firebase web `apiKey`/config object is not a secret (Firebase's real access control
+  is Security Rules + App Check, not hiding this object); space8's own equivalent config
+  is already committed in `user-src/index.html`/`admin-src/index.html` following the
+  same reasoning. Recorded in `CLAUDE.md`'s infra section for when real frontend/backend
+  work starts — nothing consumes it yet, since no app code exists under `snow/` beyond
+  the design mockups.
+
+---
+
 ## 2026-08-26 — Claude — Round 7: Account rebuilt as a coloured card matrix, per Codex's own mockup + written spec
 
 Owner sent an image (an Account-screen mockup they and Codex had produced) plus a full

diff --git a/snow/CLAUDE.md b/snow/CLAUDE.md
@@ -175,8 +175,45 @@ user-facing frontend genuinely new. Do not assume space8's `server.js`/`db.js` c
 copied verbatim — the product ladder, rates, and nav structure above are all different
 and need to be reflected in whatever backend gets built.
 
+## Live infra (provisioning started 2026-08-26)
+
+- **Firebase**: project `snow-beer-cbf65`. Client-side web config (safe to commit —
+  a Firebase web `apiKey` is not a secret, access control is Security Rules/App Check,
+  same reasoning space8 already uses for its own committed config in
+  `user-src/index.html`/`admin-src/index.html`):
+  ```js
+  const firebaseConfig = {
+    apiKey: "AIzaSyDhaVbSaQyYRdSiP1LLze-Apb6kNNTVCsc",
+    authDomain: "snow-beer-cbf65.firebaseapp.com",
+    projectId: "snow-beer-cbf65",
+    storageBucket: "snow-beer-cbf65.firebasestorage.app",
+    messagingSenderId: "171510439127",
+    appId: "1:171510439127:web:94f15dd79aa057e3d32492",
+    measurementId: "G-4S4ZES85SS"
+  };
+  ```
+  Nothing consumes this yet — no frontend code exists under `snow/` beyond the design
+  mockups. When the real user-facing app is built, this goes into its Firebase
+  init script the same way space8's does. The Firebase **service-account JSON**
+  (server-side, genuinely secret) has NOT been provided and must never go in this repo
+  when it is — only into the backend host's env vars, exactly like space8's
+  `FIREBASE_SERVICE_ACCOUNT` on Render.
+- **MongoDB Atlas**: owner is creating a dedicated `snow` database user (same shared
+  cluster/project space8 and choco-mcc already use, separated by database name — see
+  space8's own equivalent note in `space8/CLAUDE.md`). Mid-setup as of 2026-08-26: the
+  Atlas "Add New Database User" dialog was screenshotted with username `snow` filled
+  in but **no role selected yet** — Atlas requires at least one Built-in Role or
+  Specific Privilege before "Add User" actually saves. Next step: pick a role (e.g.
+  `readWriteAnyDatabase`, matching the existing `chocomcc` user's own role in that
+  project, or a tighter `readWrite` scoped to just the `snow` database) and click Add
+  User. **The generated password was never recorded in this repo** — the resulting
+  full `MONGODB_URI` connection string is a secret and must go straight into whatever
+  hosting platform's env vars end up running Snow's backend, never into a commit, and
+  ideally never pasted into chat again either.
+
 ## Secrets — NEVER commit
 
-No infrastructure (MongoDB, Firebase, MarzPay) has been provisioned for Snow yet. When
-it is, follow the exact same pattern as space8: secrets live only in the hosting
-platform's env vars, never in this repo.
+MongoDB URI and the Firebase service-account JSON are the two real secrets Snow will
+need once backend work starts — both live ONLY in the hosting platform's env vars,
+never in this repo. The Firebase web client config above is the one exception
+(genuinely not secret) — don't confuse the two when handling future infra messages.
